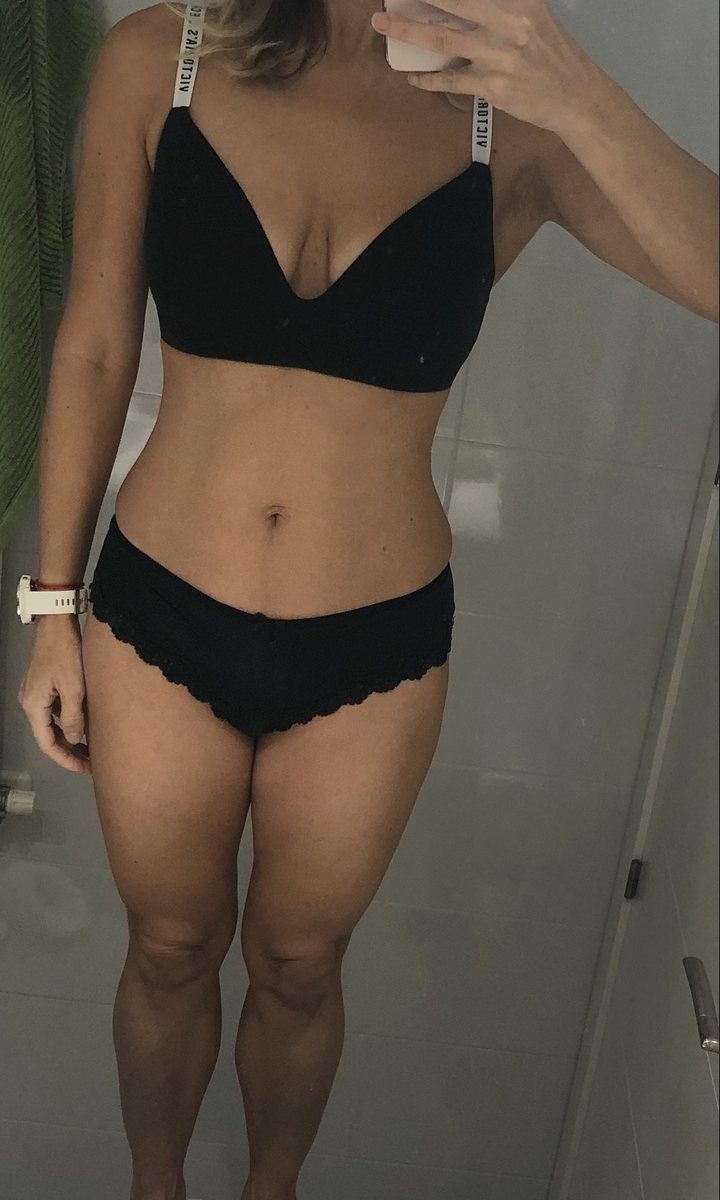
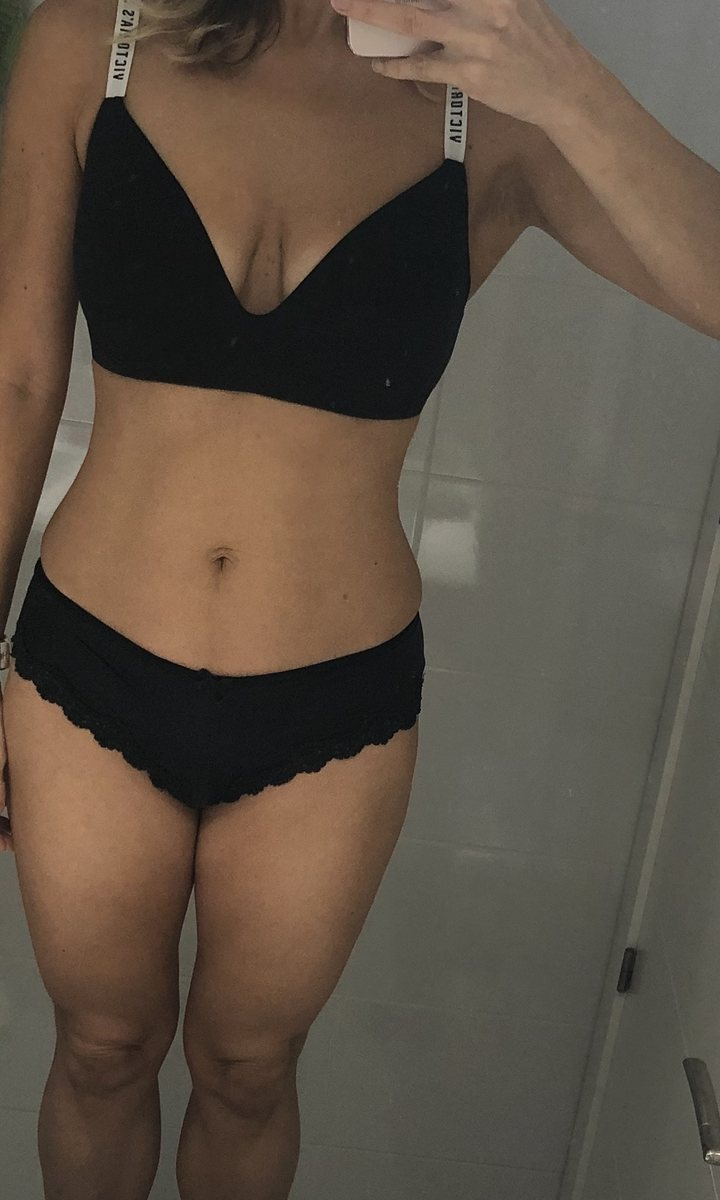
Acercar el encuadre del "antes" de Silvia
Se recorta a mano para que ocupe más el encuadre y quede menos baño
alrededor, como pidió Álvaro.

Queda pendiente de decidir si se acerca también su "después". Tal como
está, el "antes" se ve más cerca que el "después", y eso hace que en el
primero se la vea algo más grande de lo que le corresponde. En una
comparación de cambio físico eso juega en contra: cualquiera que mire con
ojo crítico puede leerlo como que la foto de partida está forzada.

Claude-Session: https://claude.ai/code/session_01JYyLpYCo6QDPh5uQwWs7cm

diff --git a/index.html b/index.html
@@ -10,7 +10,7 @@
 <meta property="og:type" content="website">
 <meta property="og:title" content="Cambios reales | Método F90 — Álvaro Cobos">
 <meta property="og:description" content="Transformaciones físicas reales de hombres y mujeres con el Método F90. Sin humo.">
-<meta property="og:image" content="assets/img/og-f90.jpg?v=202609110533">
+<meta property="og:image" content="assets/img/og-f90.jpg?v=202609110539">
 <meta name="twitter:card" content="summary_large_image">
 
 <link rel="icon" href="assets/img/logo-f90-mark.png">
@@ -18,7 +18,7 @@
 <link rel="preconnect" href="https://fonts.gstatic.com" crossorigin>
 <link href="https://fonts.googleapis.com/css2?family=Inter:opsz,wght@14..32,400..800&family=Instrument+Serif:ital@0;1&display=swap" rel="stylesheet">
 
-<link rel="stylesheet" href="assets/css/styles.css?v=202609110533">
+<link rel="stylesheet" href="assets/css/styles.css?v=202609110539">
 </head>
 <body>
 
@@ -65,7 +65,7 @@
     </h1>
 
     <figure class="foto entra" style="--d:.45s">
-      <img src="assets/img/alvaro.jpg?v=202609110533" data-src="assets/img/alvaro.jpg?v=202609110533"
+      <img src="assets/img/alvaro.jpg?v=202609110539" data-src="assets/img/alvaro.jpg?v=202609110539"
            alt="Álvaro Cobos, entrenador del Método F90"
            onerror="this.dataset.err=1; if(window.F90) F90.ph(this);">
     </figure>
@@ -426,8 +426,8 @@
   <span class="wa__nucleo"><svg aria-hidden="true"><use href="#i-whatsapp"/></svg></span>
 </a>
 
-<script>window.F90_V="202609110533";</script>
-<script src="assets/data/cambios.js?v=202609110533"></script>
-<script src="assets/js/main.js?v=202609110533"></script>
+<script>window.F90_V="202609110539";</script>
+<script src="assets/data/cambios.js?v=202609110539"></script>
+<script src="assets/js/main.js?v=202609110539"></script>
 </body>
 </html>
